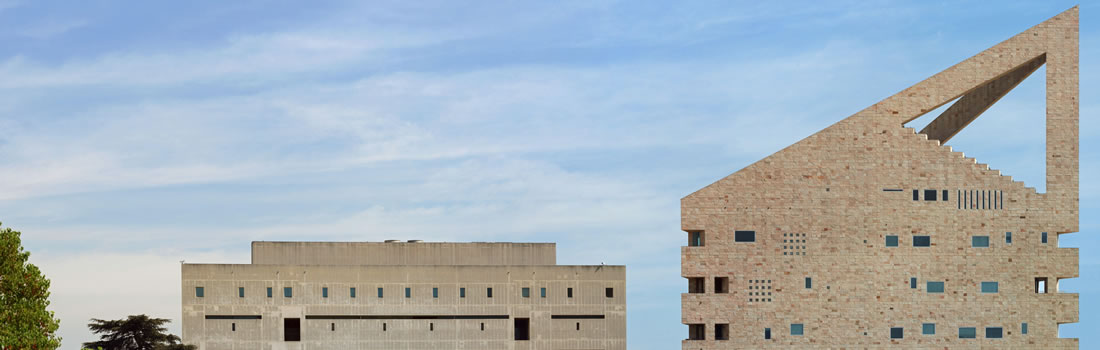
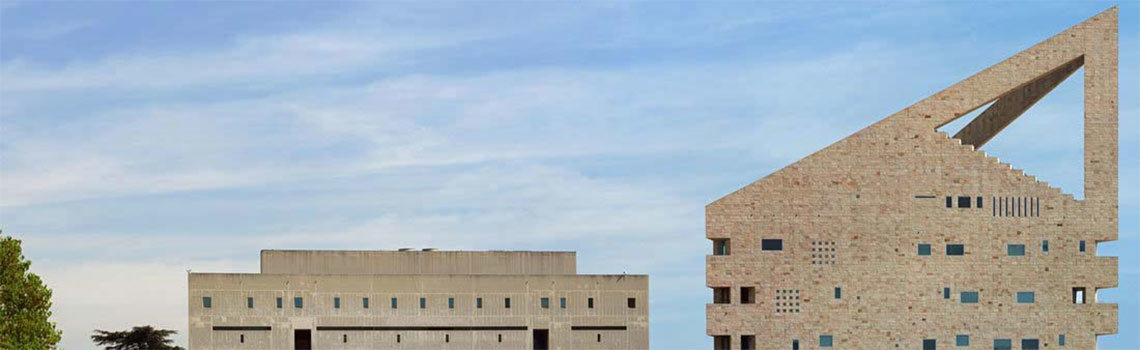
Updated slideshow images.
Added p4tches and a fixed cla building.
Replaced meeting info with include string

diff --git a/templates/index.html b/templates/index.html
@@ -12,12 +12,12 @@
                 </p>
             </li>
             <li>
-                <img src="static/assets/images/slides/slide-2.jpg" alt=""/>
+                <img src="static/assets/images/slides/p4tches.jpg" alt=""/>
 
                 <p class="flex-caption">
                     <span class="main">Come to our Open Meetings</span>
                     <br/>
-                    <span class="secondary clearfix">SWIFT general meetings are Tuesdays from 12-1pm in CBA 162-1001 </span>
+                    <span class="secondary clearfix">SWIFT general meetings are {% include "text_meeting_location.html" %}</span>
                 </p>
             </li>
             <li>
